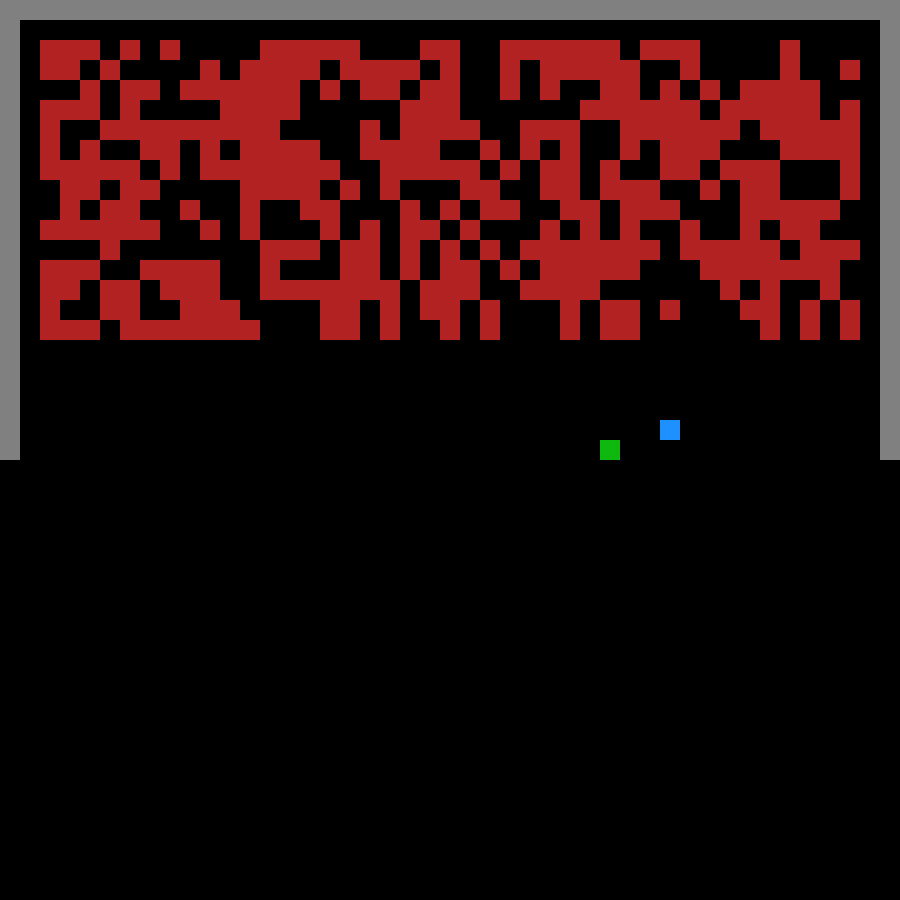
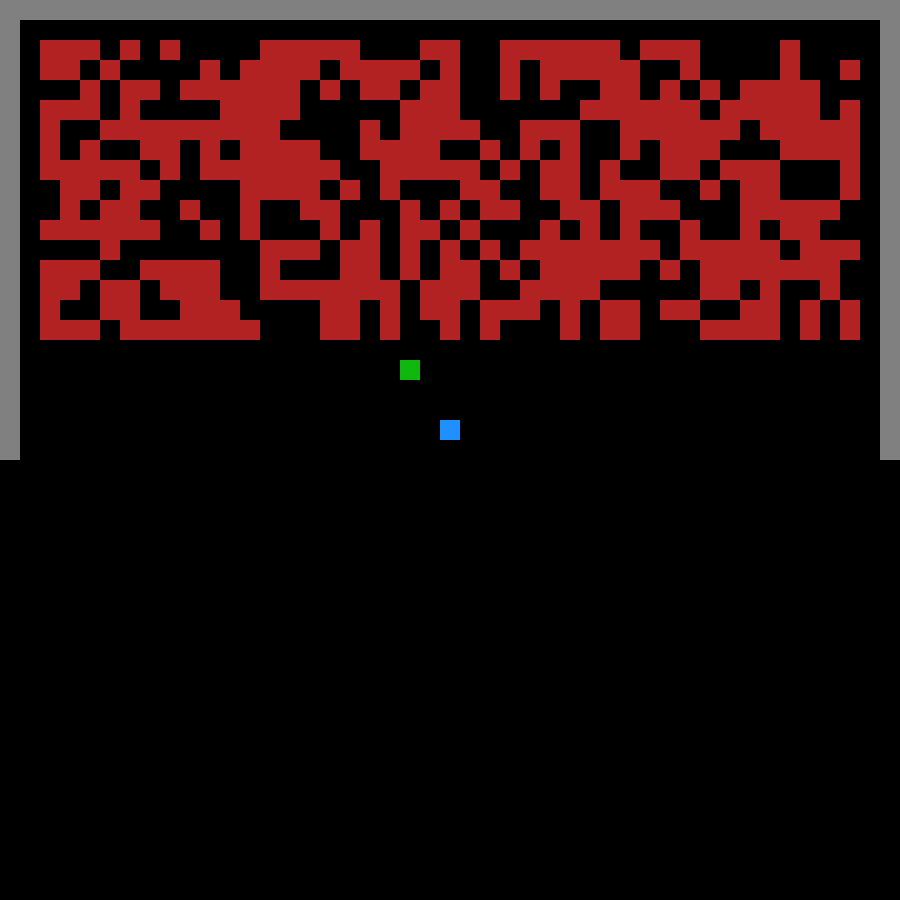
Some optimizations to day 3

diff --git a/2019/three/crossed_wires_test.go b/2019/three/crossed_wires_test.go
@@ -37,8 +37,17 @@ func Test_FindDistanceToCross(t *testing.T) {
 	for _, tc := range testCases {
 		t.Run("", func(t *testing.T) {
 			d := FindDistanceToCross(tc.wireOne, tc.wireTwo)
-			assert.Equal(t, d, tc.expectedDistance)
+			assert.Equal(t, tc.expectedDistance, d)
 		})
+	}
+}
+
+func Benchmark_FindDistanceToCross(b *testing.B) {
+	wireOne := "R995,U671,R852,U741,R347,U539,R324,U865,R839,U885,R924,D983,R865,D823,R457,U124,R807,U941,R900,U718,R896,D795,R714,D129,R465,U470,L625,U200,L707,U552,L447,D305,L351,D571,L346,D38,L609,U581,L98,D707,R535,D332,L23,D630,L66,U833,L699,D445,L981,D81,L627,U273,R226,D51,L177,D806,R459,D950,R627,U462,L382,D847,R335,D573,L902,D581,L375,D288,R26,U922,R710,D159,R481,U907,L852,U926,L905,D140,L581,U908,R158,D955,R349,U708,R196,D13,R628,D862,L899,U50,L56,D89,L506,U65,R664,D243,L701,D887,L552,U665,L674,U813,L433,U87,R951,D970,R914,D705,R79,U328,L107,D86,L307,U550,L872,U224,L595,D600,R442,D426,L139,U528,R680,U35,L951,D275,L78,U113,L509,U821,R150,U668,L981,U102,L632,D864,R636,D597,R385,U322,R464,U249,L286,D138,L993,U329,R874,D849,R6,D632,L751,U235,R817,D495,L152,D528,R872,D91,R973,D399,L14,D544,R20,U54,L793,U90,L756,D36,R668,D221,L286,D681,L901,U312,R290,D874,L155,U863,R35,D177,R900,D865,R250,D810,L448,D648,L358,U308,R986,D562,L112,D858,R77,D880,L12,U702,L987,D662,R771,U6,R643,U845,R54,U987,L994,D878,L934,U805,L85,D760,L775,D578,L557,U544,L522,U495,L678,D68,R615,U700,L415,U597,L964,D858,R504,U805,L392,U140,L721,D215,L842,U929,L30,U64,L748,D136,R274,D605,R863,U460,L354,U78,R705,D298,L456,U117,R308,D186,L707,D367,R824,U965,L162,D19,R950,D582,R911,D436,L165,U506,L186,D906,L69,U412,R810,U13,L350,U314,R192,U963,L143,D937,L685,D574,R434,D937,L365,U646,L741,U703,L66,U959,L103,U799,L480,U340,R981,U96,L675,U662,R536,U15,R171,U382,R396,D431,L922,D662,R365,D921,R915"
+	wireTwo := "L999,D290,L462,D773,L687,D706,L785,D219,R102,U307,L466,D166,R11,D712,L675,D844,R834,U665,R18,D91,R576,U187,L832,D969,L856,U389,R275,D587,L153,U329,R833,U762,R487,U607,R232,D361,R301,D738,L121,D896,R729,D767,R596,U996,R856,D849,R748,D506,L949,U166,R194,D737,L946,D504,L908,D980,L249,U885,R930,D910,R860,D647,L985,U688,L695,U207,L182,D444,R809,D394,R441,U664,L721,U31,R690,U597,R694,U942,R878,U320,R874,U162,L840,U575,L602,U649,L337,D775,L316,D588,R603,D175,L299,D538,R117,U213,L542,D429,R969,D641,R946,D373,L406,D119,R58,D686,R460,U906,L303,D13,L209,D546,R33,D545,R806,U615,R416,D294,L932,D877,R270,U350,R40,U720,L248,D13,L120,D657,L787,U313,R93,U922,R330,D184,L595,D578,R144,D213,L827,U787,R41,D142,R340,D733,L547,U595,L49,U652,L819,D691,R871,D628,R117,U880,L140,U736,L776,U151,R781,U582,R438,D382,R747,D390,R956,U44,L205,U680,R775,D152,L8,D80,R730,U922,L348,U363,L44,D355,R556,D880,R734,U60,R102,U776,L822,D732,L332,D769,L272,D784,R908,U58,L252,U290,R478,D192,R638,U548,R169,D946,L749,D638,L962,U844,R458,D283,R354,U95,L271,U738,R764,U757,R862,U176,L699,D810,L319,U866,R585,U743,L483,D502,R904,D248,L792,D37,R679,U607,L439,U326,L105,U95,L486,D214,R981,U260,R801,U212,L718,U302,L644,D987,L73,U228,L576,U507,L231,D63,R871,U802,R282,D237,L277,U418,R116,U194,R829,U786,L982,D131,R630,U358,R939,D945,L958,D961,R889,U949,L469,D980,R25,D523,L830,U343,R780,U581,R562,U115,L569,D959,R738,U299,L719,U732,L444,D579,L13,U242,L953,U169,R812,D821,R961,D742,R814,D483,R479,D123,L745,D892,L534"
+
+	for n := 0; n < b.N; n++ {
+		FindDistanceToCross(wireOne, wireTwo)
 	}
 }
 
@@ -63,8 +72,61 @@ func Test_FindCrossPoints(t *testing.T) {
 			wOne := PointsFromString(tc.wireOne)
 			wTwo := PointsFromString(tc.wireTwo)
 			d := FindCrossPoints(wOne, wTwo)
+			assert.Len(t, d, len(tc.pointsThatCross))
+		})
+	}
+}
+
+func Benchmark_FindCrossPoints(b *testing.B) {
+	b.StopTimer()
+	wireOneStr := "R995,U671,R852,U741,R347,U539,R324,U865,R839,U885,R924,D983,R865,D823,R457,U124,R807,U941,R900,U718,R896,D795,R714,D129,R465,U470,L625,U200,L707,U552,L447,D305,L351,D571,L346,D38,L609,U581,L98,D707,R535,D332,L23,D630,L66,U833,L699,D445,L981,D81,L627,U273,R226,D51,L177,D806,R459,D950,R627,U462,L382,D847,R335,D573,L902,D581,L375,D288,R26,U922,R710,D159,R481,U907,L852,U926,L905,D140,L581,U908,R158,D955,R349,U708,R196,D13,R628,D862,L899,U50,L56,D89,L506,U65,R664,D243,L701,D887,L552,U665,L674,U813,L433,U87,R951,D970,R914,D705,R79,U328,L107,D86,L307,U550,L872,U224,L595,D600,R442,D426,L139,U528,R680,U35,L951,D275,L78,U113,L509,U821,R150,U668,L981,U102,L632,D864,R636,D597,R385,U322,R464,U249,L286,D138,L993,U329,R874,D849,R6,D632,L751,U235,R817,D495,L152,D528,R872,D91,R973,D399,L14,D544,R20,U54,L793,U90,L756,D36,R668,D221,L286,D681,L901,U312,R290,D874,L155,U863,R35,D177,R900,D865,R250,D810,L448,D648,L358,U308,R986,D562,L112,D858,R77,D880,L12,U702,L987,D662,R771,U6,R643,U845,R54,U987,L994,D878,L934,U805,L85,D760,L775,D578,L557,U544,L522,U495,L678,D68,R615,U700,L415,U597,L964,D858,R504,U805,L392,U140,L721,D215,L842,U929,L30,U64,L748,D136,R274,D605,R863,U460,L354,U78,R705,D298,L456,U117,R308,D186,L707,D367,R824,U965,L162,D19,R950,D582,R911,D436,L165,U506,L186,D906,L69,U412,R810,U13,L350,U314,R192,U963,L143,D937,L685,D574,R434,D937,L365,U646,L741,U703,L66,U959,L103,U799,L480,U340,R981,U96,L675,U662,R536,U15,R171,U382,R396,D431,L922,D662,R365,D921,R915"
+	wireTwoStr := "L999,D290,L462,D773,L687,D706,L785,D219,R102,U307,L466,D166,R11,D712,L675,D844,R834,U665,R18,D91,R576,U187,L832,D969,L856,U389,R275,D587,L153,U329,R833,U762,R487,U607,R232,D361,R301,D738,L121,D896,R729,D767,R596,U996,R856,D849,R748,D506,L949,U166,R194,D737,L946,D504,L908,D980,L249,U885,R930,D910,R860,D647,L985,U688,L695,U207,L182,D444,R809,D394,R441,U664,L721,U31,R690,U597,R694,U942,R878,U320,R874,U162,L840,U575,L602,U649,L337,D775,L316,D588,R603,D175,L299,D538,R117,U213,L542,D429,R969,D641,R946,D373,L406,D119,R58,D686,R460,U906,L303,D13,L209,D546,R33,D545,R806,U615,R416,D294,L932,D877,R270,U350,R40,U720,L248,D13,L120,D657,L787,U313,R93,U922,R330,D184,L595,D578,R144,D213,L827,U787,R41,D142,R340,D733,L547,U595,L49,U652,L819,D691,R871,D628,R117,U880,L140,U736,L776,U151,R781,U582,R438,D382,R747,D390,R956,U44,L205,U680,R775,D152,L8,D80,R730,U922,L348,U363,L44,D355,R556,D880,R734,U60,R102,U776,L822,D732,L332,D769,L272,D784,R908,U58,L252,U290,R478,D192,R638,U548,R169,D946,L749,D638,L962,U844,R458,D283,R354,U95,L271,U738,R764,U757,R862,U176,L699,D810,L319,U866,R585,U743,L483,D502,R904,D248,L792,D37,R679,U607,L439,U326,L105,U95,L486,D214,R981,U260,R801,U212,L718,U302,L644,D987,L73,U228,L576,U507,L231,D63,R871,U802,R282,D237,L277,U418,R116,U194,R829,U786,L982,D131,R630,U358,R939,D945,L958,D961,R889,U949,L469,D980,R25,D523,L830,U343,R780,U581,R562,U115,L569,D959,R738,U299,L719,U732,L444,D579,L13,U242,L953,U169,R812,D821,R961,D742,R814,D483,R479,D123,L745,D892,L534"
+
+	wireOne := PointsFromString(wireOneStr)
+	wireTwo := PointsFromString(wireTwoStr)
+	b.StartTimer()
+
+	for n := 0; n < b.N; n++ {
+		FindCrossPoints(wireOne, wireTwo)
+	}
+}
+
+func Test_FindCrossPointsV2(t *testing.T) {
+	testCases := []struct {
+		wireOne         string
+		wireTwo         string
+		pointsThatCross []point
+	}{
+		{
+			wireOne: "R8,U5,L5,D3",
+			wireTwo: "U7,R6,D4,L4",
+			pointsThatCross: []point{
+				point{3, 3, 'x'},
+				point{6, 5, 'x'},
+			},
+		},
+	}
+	for _, tc := range testCases {
+		t.Run("", func(t *testing.T) {
+			wOne := PointsFromString(tc.wireOne)
+			wTwo := PointsFromString(tc.wireTwo)
+			d := FindCrossPointsV2(wOne, wTwo)
 			assert.ElementsMatch(t, d, tc.pointsThatCross)
 		})
+	}
+}
+
+func Benchmark_FindCrossPointsV2(b *testing.B) {
+	b.StopTimer()
+	wireOneStr := "R995,U671,R852,U741,R347,U539,R324,U865,R839,U885,R924,D983,R865,D823,R457,U124,R807,U941,R900,U718,R896,D795,R714,D129,R465,U470,L625,U200,L707,U552,L447,D305,L351,D571,L346,D38,L609,U581,L98,D707,R535,D332,L23,D630,L66,U833,L699,D445,L981,D81,L627,U273,R226,D51,L177,D806,R459,D950,R627,U462,L382,D847,R335,D573,L902,D581,L375,D288,R26,U922,R710,D159,R481,U907,L852,U926,L905,D140,L581,U908,R158,D955,R349,U708,R196,D13,R628,D862,L899,U50,L56,D89,L506,U65,R664,D243,L701,D887,L552,U665,L674,U813,L433,U87,R951,D970,R914,D705,R79,U328,L107,D86,L307,U550,L872,U224,L595,D600,R442,D426,L139,U528,R680,U35,L951,D275,L78,U113,L509,U821,R150,U668,L981,U102,L632,D864,R636,D597,R385,U322,R464,U249,L286,D138,L993,U329,R874,D849,R6,D632,L751,U235,R817,D495,L152,D528,R872,D91,R973,D399,L14,D544,R20,U54,L793,U90,L756,D36,R668,D221,L286,D681,L901,U312,R290,D874,L155,U863,R35,D177,R900,D865,R250,D810,L448,D648,L358,U308,R986,D562,L112,D858,R77,D880,L12,U702,L987,D662,R771,U6,R643,U845,R54,U987,L994,D878,L934,U805,L85,D760,L775,D578,L557,U544,L522,U495,L678,D68,R615,U700,L415,U597,L964,D858,R504,U805,L392,U140,L721,D215,L842,U929,L30,U64,L748,D136,R274,D605,R863,U460,L354,U78,R705,D298,L456,U117,R308,D186,L707,D367,R824,U965,L162,D19,R950,D582,R911,D436,L165,U506,L186,D906,L69,U412,R810,U13,L350,U314,R192,U963,L143,D937,L685,D574,R434,D937,L365,U646,L741,U703,L66,U959,L103,U799,L480,U340,R981,U96,L675,U662,R536,U15,R171,U382,R396,D431,L922,D662,R365,D921,R915"
+	wireTwoStr := "L999,D290,L462,D773,L687,D706,L785,D219,R102,U307,L466,D166,R11,D712,L675,D844,R834,U665,R18,D91,R576,U187,L832,D969,L856,U389,R275,D587,L153,U329,R833,U762,R487,U607,R232,D361,R301,D738,L121,D896,R729,D767,R596,U996,R856,D849,R748,D506,L949,U166,R194,D737,L946,D504,L908,D980,L249,U885,R930,D910,R860,D647,L985,U688,L695,U207,L182,D444,R809,D394,R441,U664,L721,U31,R690,U597,R694,U942,R878,U320,R874,U162,L840,U575,L602,U649,L337,D775,L316,D588,R603,D175,L299,D538,R117,U213,L542,D429,R969,D641,R946,D373,L406,D119,R58,D686,R460,U906,L303,D13,L209,D546,R33,D545,R806,U615,R416,D294,L932,D877,R270,U350,R40,U720,L248,D13,L120,D657,L787,U313,R93,U922,R330,D184,L595,D578,R144,D213,L827,U787,R41,D142,R340,D733,L547,U595,L49,U652,L819,D691,R871,D628,R117,U880,L140,U736,L776,U151,R781,U582,R438,D382,R747,D390,R956,U44,L205,U680,R775,D152,L8,D80,R730,U922,L348,U363,L44,D355,R556,D880,R734,U60,R102,U776,L822,D732,L332,D769,L272,D784,R908,U58,L252,U290,R478,D192,R638,U548,R169,D946,L749,D638,L962,U844,R458,D283,R354,U95,L271,U738,R764,U757,R862,U176,L699,D810,L319,U866,R585,U743,L483,D502,R904,D248,L792,D37,R679,U607,L439,U326,L105,U95,L486,D214,R981,U260,R801,U212,L718,U302,L644,D987,L73,U228,L576,U507,L231,D63,R871,U802,R282,D237,L277,U418,R116,U194,R829,U786,L982,D131,R630,U358,R939,D945,L958,D961,R889,U949,L469,D980,R25,D523,L830,U343,R780,U581,R562,U115,L569,D959,R738,U299,L719,U732,L444,D579,L13,U242,L953,U169,R812,D821,R961,D742,R814,D483,R479,D123,L745,D892,L534"
+
+	wireOne := PointsFromString(wireOneStr)
+	wireTwo := PointsFromString(wireTwoStr)
+	b.StartTimer()
+
+	for n := 0; n < b.N; n++ {
+		FindCrossPointsV2(wireOne, wireTwo)
 	}
 }
 
@@ -153,4 +215,15 @@ func Test_ManhattanDistance(t *testing.T) {
 			assert.Equal(t, point.ManhattanDistance(), tc.r)
 		})
 	}
+}
+
+func Test_Print(t *testing.T) {
+	// wireOneStr := "R995,U671,R852,U741,R347,U539,R324,U865,R839,U885,R924,D983,R865,D823,R457,U124,R807,U941,R900,U718,R896,D795,R714,D129,R465,U470,L625,U200,L707,U552,L447,D305,L351,D571,L346,D38,L609,U581,L98,D707,R535,D332,L23,D630,L66,U833,L699,D445,L981,D81,L627,U273,R226,D51,L177,D806,R459,D950,R627,U462,L382,D847,R335,D573,L902,D581,L375,D288,R26,U922,R710,D159,R481,U907,L852,U926,L905,D140,L581,U908,R158,D955,R349,U708,R196,D13,R628,D862,L899,U50,L56,D89,L506,U65,R664,D243,L701,D887,L552,U665,L674,U813,L433,U87,R951,D970,R914,D705,R79,U328,L107,D86,L307,U550,L872,U224,L595,D600,R442,D426,L139,U528,R680,U35,L951,D275,L78,U113,L509,U821,R150,U668,L981,U102,L632,D864,R636,D597,R385,U322,R464,U249,L286,D138,L993,U329,R874,D849,R6,D632,L751,U235,R817,D495,L152,D528,R872,D91,R973,D399,L14,D544,R20,U54,L793,U90,L756,D36,R668,D221,L286,D681,L901,U312,R290,D874,L155,U863,R35,D177,R900,D865,R250,D810,L448,D648,L358,U308,R986,D562,L112,D858,R77,D880,L12,U702,L987,D662,R771,U6,R643,U845,R54,U987,L994,D878,L934,U805,L85,D760,L775,D578,L557,U544,L522,U495,L678,D68,R615,U700,L415,U597,L964,D858,R504,U805,L392,U140,L721,D215,L842,U929,L30,U64,L748,D136,R274,D605,R863,U460,L354,U78,R705,D298,L456,U117,R308,D186,L707,D367,R824,U965,L162,D19,R950,D582,R911,D436,L165,U506,L186,D906,L69,U412,R810,U13,L350,U314,R192,U963,L143,D937,L685,D574,R434,D937,L365,U646,L741,U703,L66,U959,L103,U799,L480,U340,R981,U96,L675,U662,R536,U15,R171,U382,R396,D431,L922,D662,R365,D921,R915"
+	// wireTwoStr := "L999,D290,L462,D773,L687,D706,L785,D219,R102,U307,L466,D166,R11,D712,L675,D844,R834,U665,R18,D91,R576,U187,L832,D969,L856,U389,R275,D587,L153,U329,R833,U762,R487,U607,R232,D361,R301,D738,L121,D896,R729,D767,R596,U996,R856,D849,R748,D506,L949,U166,R194,D737,L946,D504,L908,D980,L249,U885,R930,D910,R860,D647,L985,U688,L695,U207,L182,D444,R809,D394,R441,U664,L721,U31,R690,U597,R694,U942,R878,U320,R874,U162,L840,U575,L602,U649,L337,D775,L316,D588,R603,D175,L299,D538,R117,U213,L542,D429,R969,D641,R946,D373,L406,D119,R58,D686,R460,U906,L303,D13,L209,D546,R33,D545,R806,U615,R416,D294,L932,D877,R270,U350,R40,U720,L248,D13,L120,D657,L787,U313,R93,U922,R330,D184,L595,D578,R144,D213,L827,U787,R41,D142,R340,D733,L547,U595,L49,U652,L819,D691,R871,D628,R117,U880,L140,U736,L776,U151,R781,U582,R438,D382,R747,D390,R956,U44,L205,U680,R775,D152,L8,D80,R730,U922,L348,U363,L44,D355,R556,D880,R734,U60,R102,U776,L822,D732,L332,D769,L272,D784,R908,U58,L252,U290,R478,D192,R638,U548,R169,D946,L749,D638,L962,U844,R458,D283,R354,U95,L271,U738,R764,U757,R862,U176,L699,D810,L319,U866,R585,U743,L483,D502,R904,D248,L792,D37,R679,U607,L439,U326,L105,U95,L486,D214,R981,U260,R801,U212,L718,U302,L644,D987,L73,U228,L576,U507,L231,D63,R871,U802,R282,D237,L277,U418,R116,U194,R829,U786,L982,D131,R630,U358,R939,D945,L958,D961,R889,U949,L469,D980,R25,D523,L830,U343,R780,U581,R562,U115,L569,D959,R738,U299,L719,U732,L444,D579,L13,U242,L953,U169,R812,D821,R961,D742,R814,D483,R479,D123,L745,D892,L534"
+	wireOneStr := "R98,U47,R26,D63,R33,U87,L62,D20,R33,U53,R51"
+	wireTwoStr := "U98,R91,D20,R16,D67,R40,U7,R15,U6,R7"
+	wireOne := PointsFromString(wireOneStr)
+	wireTwo := PointsFromString(wireTwoStr)
+
+	wireOne.PrintWithOverlay(wireTwo)
 }

diff --git a/2019/three/crossed_wires.go b/2019/three/crossed_wires.go
@@ -1,8 +1,11 @@
 package three
 
 import (
-	// "sort"
-
+	"fmt"
+	"image"
+	"image/color"
+	"image/png"
+	"os"
 	"strconv"
 	"strings"
 )
@@ -10,7 +13,7 @@ import (
 func FindDistanceToCross(wireOne, wireTwo string) int {
 	wOne := PointsFromString(wireOne)
 	wTwo := PointsFromString(wireTwo)
-	crossPoints := FindCrossPoints(wOne, wTwo)
+	crossPoints := FindCrossPointsV2(wOne, wTwo)
 	shortestDist := -1
 	for _, d := range crossPoints {
 		if d.ManhattanDistance() < shortestDist || shortestDist == -1 {
@@ -33,17 +36,28 @@ func FindCrossPoints(wOne, wTwo points) points {
 		}
 	}
 
-	for i, j := 0, 0; i < len(wOne) && j < len(wTwo); {
-		p1 := wOne[i]
-		p2 := wTwo[j]
-		if p1.Equal(p2) {
-			pointsThatCross = append(pointsThatCross, p1)
-			i++
-			j++
-		} else if p1.LessThan(p2) {
-			i++
-		} else {
-			j++
+	return pointsThatCross
+}
+
+func FindCrossPointsV2(wOne, wTwo points) points {
+
+	wOneMap := make(map[string]point)
+
+	for _, p := range wOne {
+		wOneMap[p.Key()] = p
+	}
+
+	wTwoMap := make(map[string]point)
+
+	for _, p := range wTwo {
+		wTwoMap[p.Key()] = p
+	}
+
+	pointsThatCross := make([]point, 0)
+	for k, _ := range wOneMap {
+		if mp, ok := wTwoMap[k]; ok {
+			mp.char = 'x'
+			pointsThatCross = append(pointsThatCross, mp)
 		}
 	}
 
@@ -158,6 +172,10 @@ func (p point) ManhattanDistance() int {
 	return absX + absY
 }
 
+func (p point) Key() string {
+	return fmt.Sprintf("%d,%d", p.x, p.y)
+}
+
 type points []point
 
 func (p points) Len() int {
@@ -222,6 +240,7 @@ func (p points) Print() string {
 	return sb.String()
 }
 
+// TODO: Overflow protection
 func (p points) PrintWithOverlay(o points) string {
 	xMax := -1
 	yMax := -1
@@ -263,46 +282,64 @@ func (p points) PrintWithOverlay(o points) string {
 	xMax = (xMin * -1) + xMax
 	yMax = (yMin * -1) + yMax
 
-	graph := make([][]rune, yMax)
+	// graph := make([][]rune, yMax)
 
-	for i := 0; i < yMax; i++ {
-		graph[i] = make([]rune, xMax)
-		for j := 0; j < xMax; j++ {
-			// set the my zero value to *
-			graph[i][j] = zero
+	// for i := 0; i < yMax; i++ {
+	// 	graph[i] = make([]rune, xMax)
+	// 	for j := 0; j < xMax; j++ {
+	// 		// set the my zero value to *
+	// 		graph[i][j] = zero
+	// 	}
+	// }
+
+	// for _, r := range p {
+	// 	graph[r.y-yMin][r.x-xMin] = r.char
+	// }
+	// for _, r := range o {
+	// 	graph[r.y-yMin][r.x-xMin] = r.char
+	// }
+
+	// crossPoints := FindCrossPoints(p, o)
+	// for _, r := range crossPoints {
+	// 	graph[r.y-yMin][r.x-xMin] = 'x'
+	// }
+
+	// graph[0-yMin][0-xMin] = '\u25A1'
+
+	// var sb strings.Builder
+	// for i := yMax - 1; i >= 0; i-- {
+	// 	// for _, row := range graph {
+	// 	sb.WriteString(string(graph[i]))
+	// 	sb.WriteRune('\n')
+	// }
+
+	// return sb.String()
+
+	squarSiz := 20
+	rect := image.Rect(0, 0, xMax*squarSiz, yMax*squarSiz)
+	img := image.NewRGBA(rect)
+
+	green := color.RGBA{14, 184, 14, 0xff}
+	blue := color.RGBA{0, 0, 0xff, 0xff}
+
+	for _, r := range p {
+		for y := (r.y - yMin) * squarSiz; y < (r.y-yMin+1)*squarSiz; y++ {
+			for x := (r.x - xMin) * squarSiz; x < (r.x-xMin+1)*squarSiz; x++ {
+				img.Set(x, y, green)
+			}
 		}
 	}
 
-	for _, r := range p {
-
-		// if graph[r.y-yMin][r.x-xMin] != zero {
-		// 	graph[r.y-yMin][r.x-xMin] = 'x'
-		// } else {
-		graph[r.y-yMin][r.x-xMin] = r.char
-		// }
-	}
 	for _, r := range o {
-
-		// if graph[r.y-yMin][r.x-xMin] != zero {
-		// 	graph[r.y-yMin][r.x-xMin] = 'x'
-		// } else {
-		graph[r.y-yMin][r.x-xMin] = r.char
-		// }
+		for y := (r.y - yMin) * squarSiz; y < (r.y-yMin+1)*squarSiz; y++ {
+			for x := (r.x - xMin) * squarSiz; x < (r.x-xMin+1)*squarSiz; x++ {
+				img.Set(x, y, blue)
+			}
+		}
 	}
 
-	crossPoints := FindCrossPoints(p, o)
-	for _, r := range crossPoints {
-		graph[r.y-yMin][r.x-xMin] = 'x'
-	}
+	f, _ := os.Create(fmt.Sprintf("img-%d-%d.png", xMax, yMax))
 
-	graph[0-yMin][0-xMin] = '\u25A1'
-
-	var sb strings.Builder
-	for i := yMax - 1; i >= 0; i-- {
-		// for _, row := range graph {
-		sb.WriteString(string(graph[i]))
-		sb.WriteRune('\n')
-	}
-
-	return sb.String()
+	png.Encode(f, img)
+	return f.Name()
 }

diff --git a/2019/two/intcode.go b/2019/two/intcode.go
@@ -15,16 +15,16 @@ func ProcessProgram(i int, program []int) error {
 	}
 
 	switch opcode {
-	case 1:
-		// Add [input1, input2, output]
-		program[program[i+3]] = program[program[i+1]] + program[program[i+2]]
-	case 2:
-		// Multiply [input1, input2, output]
-		program[program[i+3]] = program[program[i+1]] * program[program[i+2]]
-	case 99:
-		return nil
-	default:
-		return fmt.Errorf("unknown opcode: %d", opcode)
+		case 1:
+			// Add [input1, input2, output]
+			program[program[i+3]] = program[program[i+1]] + program[program[i+2]]
+		case 2:
+			// Multiply [input1, input2, output]
+			program[program[i+3]] = program[program[i+1]] * program[program[i+2]]
+		case 99:
+			return nil
+		default:
+			return fmt.Errorf("unknown opcode: %d", opcode)
 	}
 
 	return ProcessProgram(i+4, program)

diff --git a/2019/one/rocket_eq_test.go b/2019/one/rocket_eq_test.go
@@ -5,6 +5,11 @@ import (
 
 	"github.com/stretchr/testify/assert"
 )
+func Benchmark_CalculateFuelForModule(b *testing.B) {
+	for i := 0; i < b.N; i++ {
+		CalculateFuelForModule(100756)
+	}
+}
 
 func Test_CalculateFuelForModule(t *testing.T) {
 	testCases := []struct {

diff --git a/2019/three/readme.md b/2019/three/readme.md
@@ -47,3 +47,12 @@ U98,R91,D20,R16,D67,R40,U7,R15,U6,R7 = 410 steps
 What is the fewest combined steps the wires must take to reach an intersection?
 
 Your puzzle answer was 122514.
+
+
+
+
+
+<!-- Benchmark_FindCrossPoints-8   	       1	39217105496 ns/op	    3056 B/op	       7 allocs/op
+PASS
+ok  	github.com/nbutton23/advent-of-code/2019/three	39.239s
+Success: Benchmarks passed. -->
